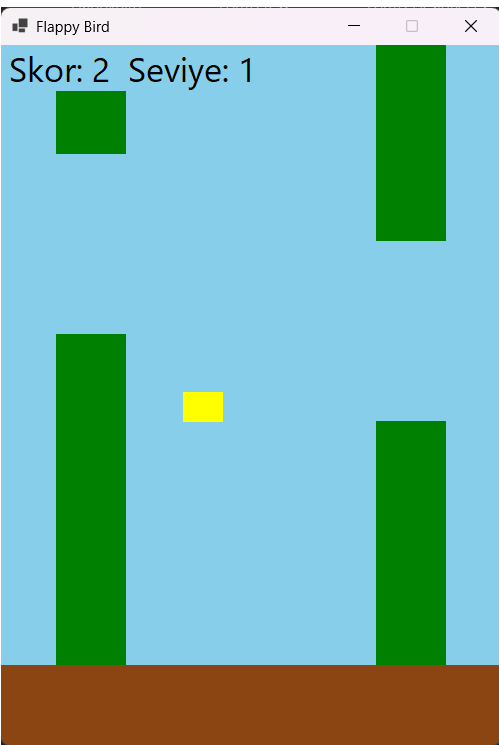
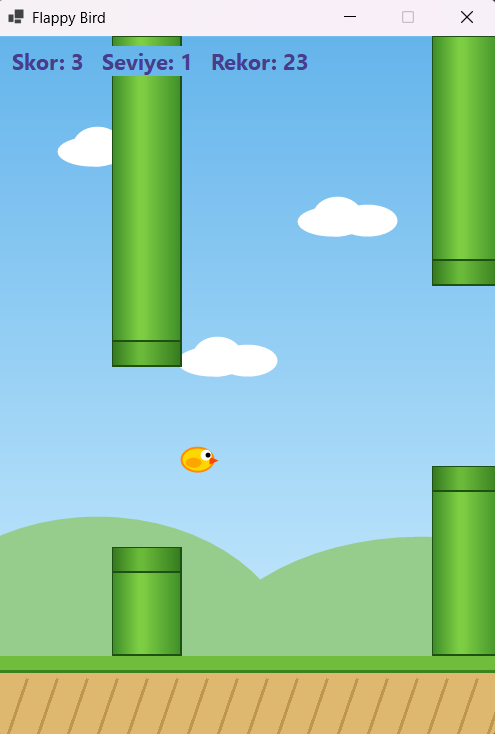
Ekran görüntüleri güncellendi README.md güncellendi.
Oyun mekanizması, sınıflar ve ileri özellikler detaylandı
README güncellendi, görsel dosyalar değiştirildi
HighScoreStorage, SpriteFactory, GameState, Bird, Pipe, Form1 sınıfları oyunu yönetiyor
Space tuşu ile zıplama, boruların geçilmesi, seviye artışı ve hızlanma mekanizması
Çarpışma sonucu game over, restart düğmesi ile yeniden başlangıç
Highscore.txt en yüksek skor saklanıyor, M tuşu sesi açıp kapatıyor
SpriteFactory ile görseller kodla oluşturuluyor

diff --git a/README.md b/README.md
@@ -24,12 +24,21 @@ tabanlı bir yapı ile yönetmek.
 - Her geçilen boru 1 puan kazandırır, her 5 puanda seviye artar ve oyun hızlanır.
 - Boruya veya zemine çarpınca oyun biter. **Restart** düğmesiyle yeniden başlanır.
 
+## Ek Özellikler (İsteğe Bağlı Geliştirmeler)
+
+- **En yüksek skor:** Rekor `highscore.txt` dosyasında saklanır, oyun kapatılıp açılsa da korunur.
+- **Seviye sistemi:** Her 5 puanda seviye artar, borular hızlanır.
+- **Ses efektleri:** Puan alınca ve çarpınca sistem sesi çalar. **M** tuşu sesi açıp kapatır.
+- **Kodla çizilen görseller:** Kuş, borular, zemin ve arka plan `SpriteFactory` sınıfı ile çizilmiştir.
+
 ## Sınıf Yapısı
 
 - `Bird`: Kuşun konumu, hızı, yerçekimi ve zıplama.
 - `Pipe`: Üst/alt boru, hareket, çarpışma ve yeniden konumlandırma.
 - `GameState`: Skor, seviye, oyun hızı ve oyunun bitip bitmediği.
 - `Form1`: Timer döngüsü, klavye olayları ve oyun akışı.
+- `HighScoreStorage`: En yüksek skorun dosyaya yazılması ve okunması.
+- `SpriteFactory`: Oyun görsellerinin kodla çizilmesi.
 
 ## Çalıştırma Adımları
 
